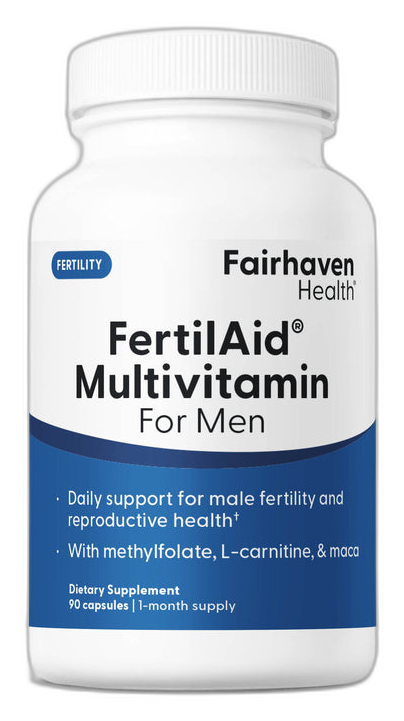
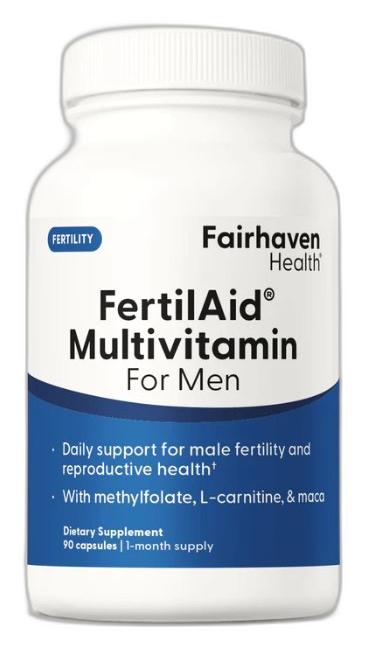
feat(web/3d): dimensional glass vitrines with own-catalog photography
- images now from the shop's own /uploads (current packaging incl. new Prenatal)
- each product on a glassy RoundedBox plate + pastel accent discs → true 3D body
- vitrines bank toward cursor and pitch with scroll velocity (living depth)
- deep pastel orbs layer the background; quote-paired opposite-side placement kept
- motion.dev: card inner content (stat/quote/author) re-staggers on each focus

diff --git a/web/src/components/home/Scene3D.jsx b/web/src/components/home/Scene3D.jsx
@@ -1,30 +1,28 @@
 import React, { Suspense, useEffect, useMemo, useRef } from 'react';
 import { Canvas, useFrame } from '@react-three/fiber';
-import { Float, useTexture } from '@react-three/drei';
+import { Float, RoundedBox, useTexture } from '@react-three/drei';
 import * as THREE from 'three';
 
 import { scrollBus } from './scrollBus.js';
 
 /**
- * The descent gallery is built from the OFFICIAL Fairhaven product
- * photography (bg removed) — pixel-identical to fairhavenhealth.com.
- * Each product is an alpha-keyed billboard with a soft shadow; the camera
- * glides down past them as the testimonials cascade.
+ * Dimensional product vitrines: the shop's own catalog photography
+ * (current packaging, bg removed) mounted on glassy 3D plates with layered
+ * accents. The whole vitrine banks toward the cursor and pitches with
+ * scroll velocity — real depth, zero warped geometry.
  */
 
 const JOURNEY_DEPTH = 15;
 
-/* Each product is paired with ONE testimonial step: same scroll moment,
-   OPPOSITE side of that card (cards alternate L,R,L,R,L,R). Neighbouring
-   products are a full step (~100vh) away — offscreen while a quote reads.
-   `step` aligns via scrollBus.stepCenters (measured from the real DOM). */
+/* Cards alternate L,R,L,R,L,R — each vitrine shares its quote's scroll
+   moment on the OPPOSITE side (neighbours are a full step away). */
 const PRODUCTS = [
-  { img: '/assets/p3d/fhpro-women.png', x: 1.9, d: 0.02, z: -1.15, h: 2.9 }, // hero
-  { img: '/assets/p3d/fertilaid-men.png', x: 2.0, step: 0, z: -1.9, h: 2.45 }, // card L → R
-  { img: '/assets/p3d/peapod.png', x: -2.0, step: 1, z: -1.9, h: 2.5 }, // card R → L
-  { img: '/assets/p3d/lactation.png', x: 2.0, step: 2, z: -2.0, h: 2.4 }, // card L → R
-  { img: '/assets/p3d/menopause.png', x: -2.0, step: 3, z: -1.9, h: 2.45 }, // card R → L
-  { img: '/assets/p3d/ovaboost.png', x: 2.0, step: 4, z: -2.0, h: 2.4 }, // card L → R
+  { img: '/assets/p3d/fhpro-women.png', x: 1.9, d: 0.02, z: -1.15, h: 2.75, hero: true },
+  { img: '/assets/p3d/fhpro-men.png', x: 2.05, step: 0, z: -1.9, h: 2.35 },
+  { img: '/assets/p3d/prenatal.png', x: -2.05, step: 1, z: -1.9, h: 2.3 },
+  { img: '/assets/p3d/fertilaid-men.png', x: 2.05, step: 2, z: -2.0, h: 2.3 },
+  { img: '/assets/p3d/lactation.png', x: -2.05, step: 3, z: -1.9, h: 2.35 },
+  { img: '/assets/p3d/fertilaid-women.png', x: 2.05, step: 4, z: -2.0, h: 2.3 },
 ];
 
 /* Soft elliptical drop shadow, drawn once. */
@@ -34,8 +32,8 @@ function makeShadowTexture() {
   c.height = 128;
   const ctx = c.getContext('2d');
   const g = ctx.createRadialGradient(128, 64, 8, 128, 64, 120);
-  g.addColorStop(0, 'rgba(66, 34, 48, 0.38)');
-  g.addColorStop(0.55, 'rgba(66, 34, 48, 0.16)');
+  g.addColorStop(0, 'rgba(66, 34, 48, 0.36)');
+  g.addColorStop(0.55, 'rgba(66, 34, 48, 0.15)');
   g.addColorStop(1, 'rgba(66, 34, 48, 0)');
   ctx.scale(1, 0.5);
   ctx.translate(0, 64);
@@ -46,56 +44,96 @@ function makeShadowTexture() {
   return tex;
 }
 
-function ProductBillboard({ conf, shadowTex }) {
-  const groupRef = useRef();
+/* Shared pointer state for the vitrine banking. */
+const pointer = { x: 0, y: 0 };
+
+function ProductVitrine({ conf, shadowTex }) {
+  const yRef = useRef();
+  const tiltRef = useRef();
   const texture = useTexture(conf.img);
   texture.colorSpace = THREE.SRGBColorSpace;
   texture.anisotropy = 8;
 
   const aspect = texture.image
     ? texture.image.width / texture.image.height
-    : 0.55;
+    : 0.58;
   const w = conf.h * aspect;
+  const plateW = Math.max(w * 1.3, conf.h * 0.78);
+  const plateH = conf.h * 1.14;
+  const side = conf.x >= 0 ? 1 : -1;
+  const baseYaw = -side * 0.16;
+  const prevJourney = useRef(0);
 
-  // Step-paired products track their quote's measured position (resize-safe).
-  useFrame(() => {
-    const g = groupRef.current;
-    if (!g || conf.step == null) return;
-    const center = scrollBus.stepCenters[conf.step];
-    if (center != null) g.position.y = -center * JOURNEY_DEPTH;
+  useFrame(({ clock }, delta) => {
+    // Follow the paired quote's measured position (resize-safe).
+    const g = yRef.current;
+    if (g && conf.step != null) {
+      const center = scrollBus.stepCenters[conf.step];
+      if (center != null) g.position.y = -center * JOURNEY_DEPTH;
+    }
+    // Bank toward the cursor; pitch with scroll velocity — living 3D.
+    const t = tiltRef.current;
+    if (t) {
+      const vel = (scrollBus.journey - prevJourney.current) / Math.max(delta, 0.001);
+      prevJourney.current = scrollBus.journey;
+      const idle = conf.hero ? Math.sin(clock.elapsedTime * 0.32) * 0.07 : 0;
+      const targetY = baseYaw + idle + pointer.x * 0.09;
+      const targetX = THREE.MathUtils.clamp(vel * 1.6, -0.12, 0.12) - pointer.y * 0.05;
+      const k = 1 - Math.exp(-delta * 4);
+      t.rotation.y += (targetY - t.rotation.y) * k;
+      t.rotation.x += (targetX - t.rotation.x) * k;
+    }
   });
 
   return (
     <group
-      ref={groupRef}
+      ref={yRef}
       position={[conf.x, -(conf.d ?? 0) * JOURNEY_DEPTH, conf.z]}
     >
-      <Float speed={0.8} rotationIntensity={0} floatIntensity={0.16}>
-        <mesh renderOrder={1}>
-          <planeGeometry args={[w, conf.h]} />
-          <meshBasicMaterial
-            map={texture}
-            transparent
-            toneMapped={false}
-            depthWrite={false}
-          />
-        </mesh>
+      <Float speed={0.8} rotationIntensity={0} floatIntensity={0.15}>
+        <group ref={tiltRef} rotation={[0, baseYaw, 0]}>
+          {/* glassy backing plate — gives the vitrine its physical body */}
+          <RoundedBox
+            args={[plateW, plateH, 0.09]}
+            radius={0.09}
+            smoothness={3}
+            position={[0, 0, -0.11]}
+          >
+            <meshPhysicalMaterial
+              color="#ffffff"
+              transparent
+              opacity={0.42}
+              roughness={0.16}
+              clearcoat={0.9}
+              clearcoatRoughness={0.3}
+            />
+          </RoundedBox>
+          {/* pastel accent disc floating between plate and product */}
+          <mesh position={[side * plateW * 0.34, plateH * 0.3, -0.06]}>
+            <circleGeometry args={[conf.h * 0.3, 48]} />
+            <meshBasicMaterial color="#e9c5d4" transparent opacity={0.85} toneMapped={false} />
+          </mesh>
+          <mesh position={[-side * plateW * 0.3, -plateH * 0.34, -0.08]}>
+            <circleGeometry args={[conf.h * 0.16, 40]} />
+            <meshBasicMaterial color="#cee2de" transparent opacity={0.7} toneMapped={false} />
+          </mesh>
+          {/* the product — real catalog photography */}
+          <mesh renderOrder={2}>
+            <planeGeometry args={[w, conf.h]} />
+            <meshBasicMaterial map={texture} transparent toneMapped={false} depthWrite={false} />
+          </mesh>
+        </group>
         {/* grounded soft shadow */}
-        <mesh position={[0.05, -conf.h / 2 - 0.06, -0.01]} renderOrder={0}>
-          <planeGeometry args={[w * 1.15, conf.h * 0.22]} />
-          <meshBasicMaterial
-            map={shadowTex}
-            transparent
-            toneMapped={false}
-            depthWrite={false}
-          />
+        <mesh position={[0.04, -plateH / 2 - 0.12, -0.02]} renderOrder={0}>
+          <planeGeometry args={[plateW * 1.05, plateH * 0.2]} />
+          <meshBasicMaterial map={shadowTex} transparent toneMapped={false} depthWrite={false} />
         </mesh>
       </Float>
     </group>
   );
 }
 
-/* ── Atmosphere: slow-drifting pollen motes ─────────────────────────────── */
+/* ── Atmosphere: pollen motes + deep pastel orbs ────────────────────────── */
 
 const MOTE_COUNT = 130;
 
@@ -133,17 +171,32 @@ function Motes() {
   );
 }
 
+const ORBS = [
+  { x: -4.5, dy: 0.15, z: -6, r: 1.4, color: '#e9c5d4', o: 0.35 },
+  { x: 4.8, dy: 0.42, z: -7, r: 1.8, color: '#dbcad4', o: 0.3 },
+  { x: -4.2, dy: 0.7, z: -6.5, r: 1.3, color: '#cee2de', o: 0.32 },
+  { x: 4.4, dy: 0.95, z: -6, r: 1.5, color: '#e9c5d4', o: 0.3 },
+];
+
+function DepthOrbs() {
+  return ORBS.map((orb, i) => (
+    <mesh position={[orb.x, -orb.dy * JOURNEY_DEPTH, orb.z]} key={i}>
+      <circleGeometry args={[orb.r, 48]} />
+      <meshBasicMaterial color={orb.color} transparent opacity={orb.o} toneMapped={false} />
+    </mesh>
+  ));
+}
+
 /* ── Camera rig — critically damped glide, no roll ──────────────────────── */
 
 function CameraRig({ reducedMotion }) {
-  const mouse = useRef({ x: 0, y: 0 });
   const smooth = useRef({ journey: 0, mx: 0, my: 0 });
 
   useEffect(() => {
     if (reducedMotion) return undefined;
     const onMove = (e) => {
-      mouse.current.x = (e.clientX / window.innerWidth) * 2 - 1;
-      mouse.current.y = (e.clientY / window.innerHeight) * 2 - 1;
+      pointer.x = (e.clientX / window.innerWidth) * 2 - 1;
+      pointer.y = (e.clientY / window.innerHeight) * 2 - 1;
     };
     window.addEventListener('pointermove', onMove, { passive: true });
     return () => window.removeEventListener('pointermove', onMove);
@@ -154,10 +207,10 @@ function CameraRig({ reducedMotion }) {
     const kJourney = 1 - Math.exp(-delta * 2.4);
     const kMouse = 1 - Math.exp(-delta * 4);
     s.journey += (scrollBus.journey - s.journey) * kJourney;
-    s.mx += (mouse.current.x - s.mx) * kMouse;
-    s.my += (mouse.current.y - s.my) * kMouse;
+    s.mx += (pointer.x - s.mx) * kMouse;
+    s.my += (pointer.y - s.my) * kMouse;
 
-    const sway = Math.sin(s.journey * Math.PI * 2) * 0.16;
+    const sway = Math.sin(s.journey * Math.PI * 2) * 0.15;
     camera.position.y = -s.journey * JOURNEY_DEPTH;
     camera.position.x = sway + s.mx * 0.12;
     camera.position.z = 5.05;
@@ -173,11 +226,14 @@ function SceneContents({ reducedMotion }) {
 
   return (
     <>
-      {/* Distant products melt into the cream atmosphere. */}
       <fog attach="fog" args={['#fdfaf7', 7, 13]} />
+      {/* just enough light for the glass plates; photos are unlit */}
+      <ambientLight intensity={0.9} />
+      <directionalLight position={[3, 4, 5]} intensity={0.7} />
+      <DepthOrbs />
       <Suspense fallback={null}>
         {PRODUCTS.map((conf, i) => (
-          <ProductBillboard conf={conf} shadowTex={shadowTex} key={i} />
+          <ProductVitrine conf={conf} shadowTex={shadowTex} key={i} />
         ))}
       </Suspense>
       <Motes />
@@ -196,7 +252,7 @@ export default function Scene3D({ active = true, reducedMotion = false }) {
       <Canvas
         dpr={[1, 1.75]}
         frameloop={active ? 'always' : 'never'}
-        camera={{ position: [0, 0.08, 5.05], fov: 32 }}
+        camera={{ position: [0, 0.08, 5.05], fov: 33 }}
         gl={{ alpha: true, antialias: true, powerPreference: 'high-performance' }}
       >
         <SceneContents reducedMotion={reducedMotion} />

diff --git a/web/src/components/home/TestimonialCascade.jsx b/web/src/components/home/TestimonialCascade.jsx
@@ -1,9 +1,25 @@
 import React, { useEffect, useRef } from 'react';
+import { m } from 'motion/react';
 import { useI18n } from '../../i18n/index.jsx';
 import { TESTIMONIALS } from './testimonialsData.js';
 import { scrollBus } from './scrollBus.js';
 
 const clamp01 = (v) => Math.min(1, Math.max(0, v));
+
+/* Motion.dev: the card's inner content re-reveals each time its quote
+   scrolls into focus — mark, stat, text, author cascade in. */
+const innerStagger = {
+  hidden: {},
+  show: { transition: { staggerChildren: 0.09, delayChildren: 0.05 } },
+};
+const innerRise = {
+  hidden: { opacity: 0, y: 18 },
+  show: {
+    opacity: 1,
+    y: 0,
+    transition: { type: 'spring', stiffness: 240, damping: 26 },
+  },
+};
 
 /**
  * The descent: one full-viewport sticky step per voice. A rAF-throttled
@@ -148,19 +164,28 @@ export default function TestimonialCascade({ simple = false }) {
                 {item.kind === 'research' ? '§' : item.kind === 'award' ? '✦' : '“'}
               </span>
 
-              {item.kind === 'research' && (
-                <div className="voice-stat" aria-hidden="true">
-                  <strong>{item.stat}</strong>
-                  <span>{copy.statLabel}</span>
-                </div>
-              )}
+              <m.div
+                variants={innerStagger}
+                initial="hidden"
+                whileInView="show"
+                viewport={{ amount: 0.55 }}
+              >
+                {item.kind === 'research' && (
+                  <m.div className="voice-stat" aria-hidden="true" variants={innerRise}>
+                    <strong>{item.stat}</strong>
+                    <span>{copy.statLabel}</span>
+                  </m.div>
+                )}
 
-              <blockquote className="voice-text">{copy.text}</blockquote>
+                <m.blockquote className="voice-text" variants={innerRise}>
+                  {copy.text}
+                </m.blockquote>
 
-              <figcaption className="voice-author">
-                <strong>{copy.name}</strong>
-                <span>{copy.role}</span>
-              </figcaption>
+                <m.figcaption className="voice-author" variants={innerRise}>
+                  <strong>{copy.name}</strong>
+                  <span>{copy.role}</span>
+                </m.figcaption>
+              </m.div>
             </figure>
           </section>
         );
